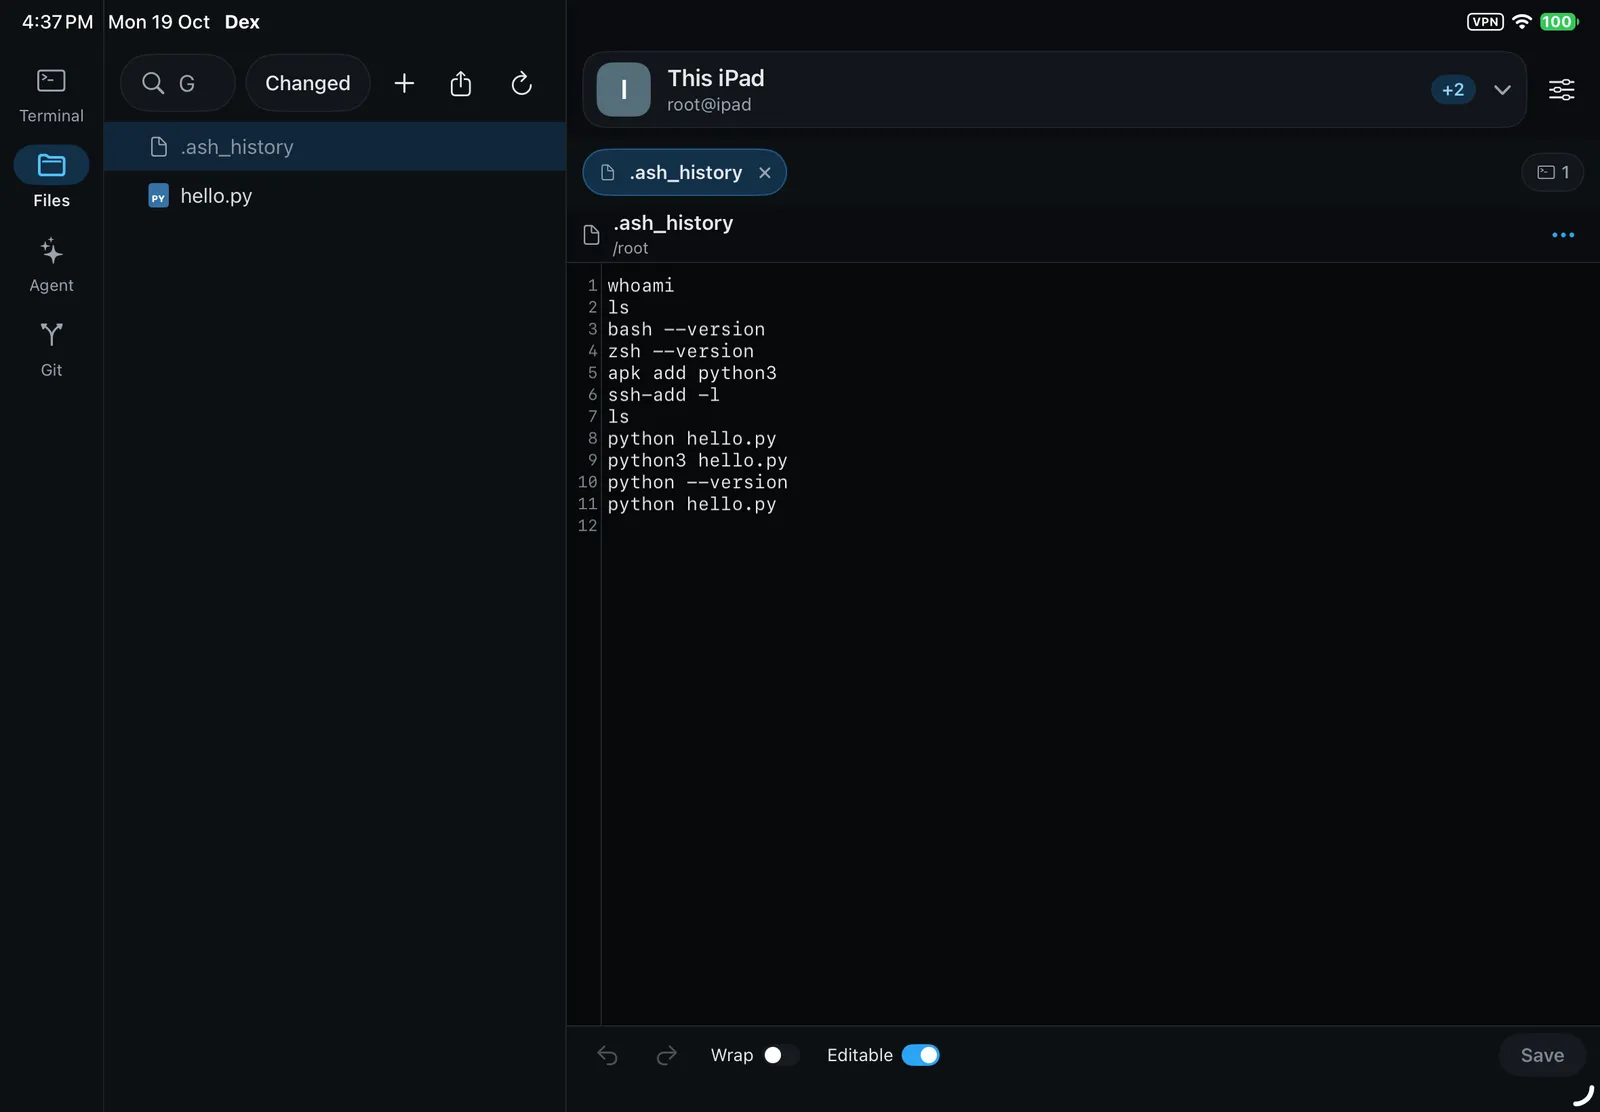
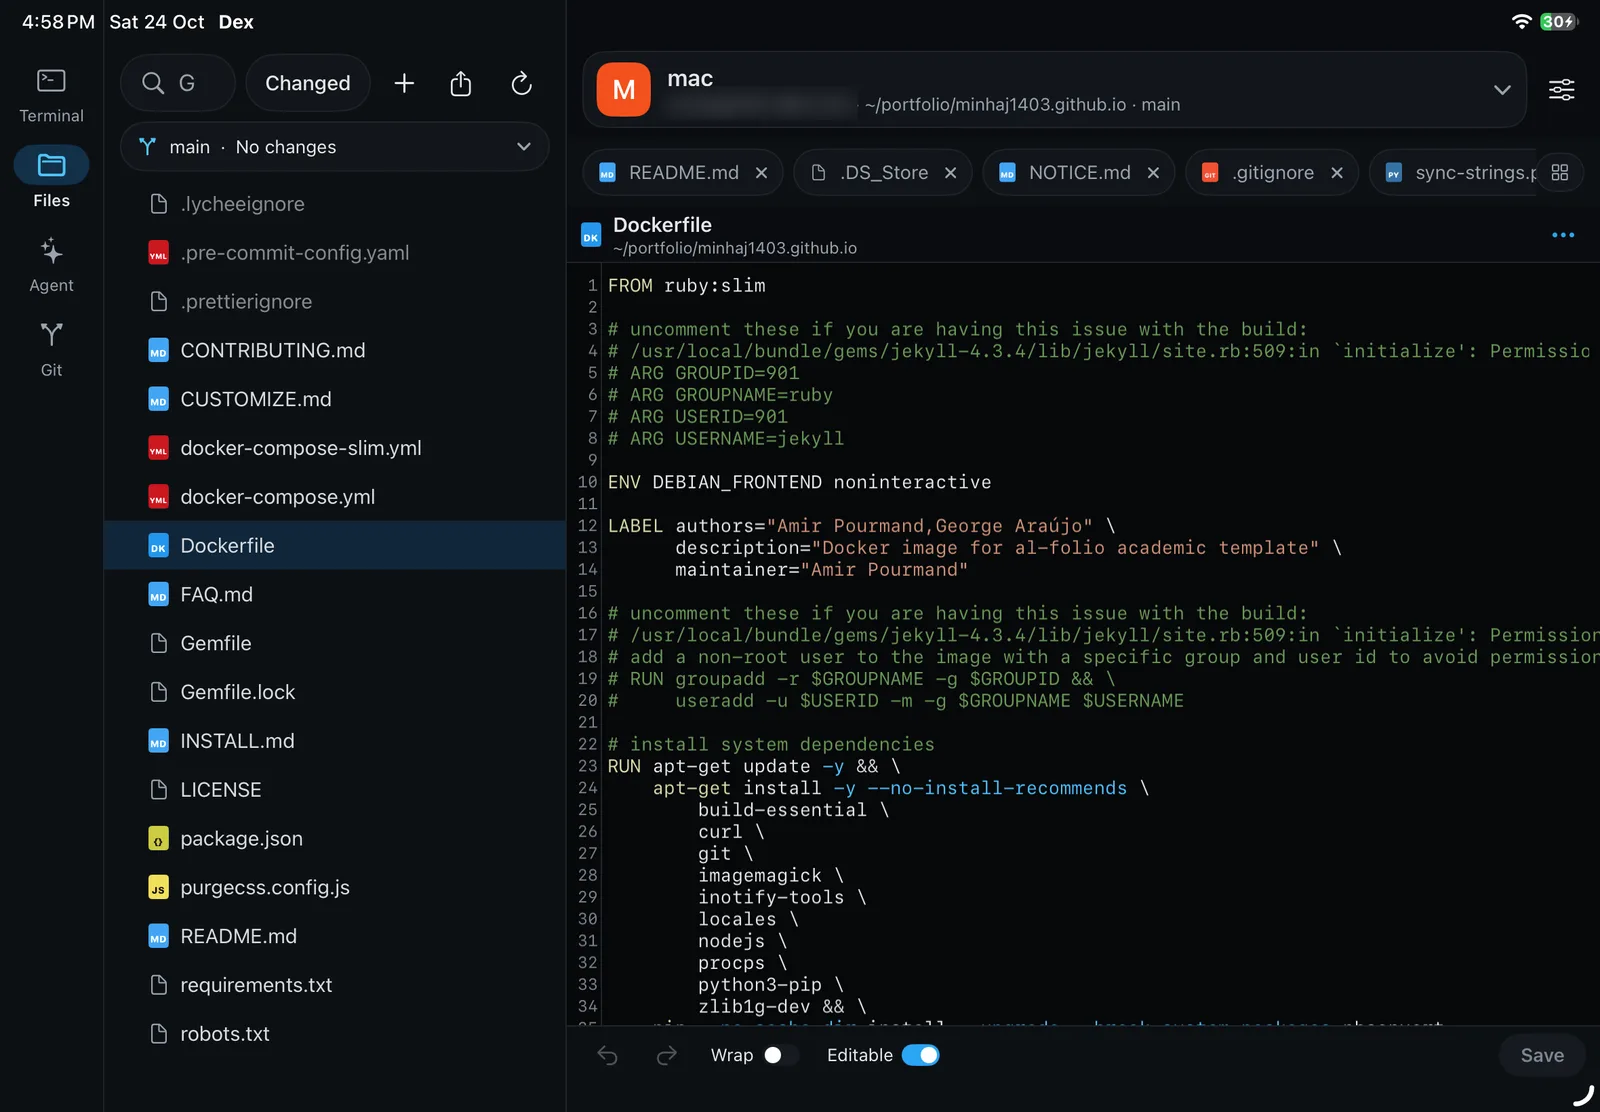
Show a project on a Mac in the iPad's Files screenshot of Dex, not the iPad's own files

diff --git a/dex/bn/index.html b/dex/bn/index.html
@@ -322,7 +322,7 @@
         <div class="tablet">
           <div class="screen">
             <div class="track track-3" id="tabletTrack">
-              <img src="../assets/img/tab-files.webp" alt="iPad এ Dex: iPad এর নিজের ফাইল, একটি এডিটরে খোলা।" width="1600" height="1112" loading="lazy">
+              <img src="../assets/img/tab-files.webp" alt="iPad এ Dex: একটি Mac এর প্রজেক্টের ফাইল, একটি এডিটরে খোলা।" width="1600" height="1112" loading="lazy">
               <img src="../assets/img/tab-agent.webp" alt="iPad এ Dex: Mac এর এজেন্টের আলাপ, তার টার্মিনালের পাশে।" width="1600" height="1112" loading="lazy">
               <img src="../assets/img/tab-git.webp" alt="iPad এ Dex: Git ট্যাব, কমিটের জন্য তৈরি একটি পরিবর্তন সহ।" width="1600" height="1112" loading="lazy">
             </div>

diff --git a/dex/ko/index.html b/dex/ko/index.html
@@ -322,7 +322,7 @@
         <div class="tablet">
           <div class="screen">
             <div class="track track-3" id="tabletTrack">
-              <img src="../assets/img/tab-files.webp" alt="iPad의 Dex: iPad 자체의 파일과, 편집기에 열린 파일 하나." width="1600" height="1112" loading="lazy">
+              <img src="../assets/img/tab-files.webp" alt="iPad의 Dex: Mac에 있는 프로젝트의 파일과, 편집기에 열린 파일 하나." width="1600" height="1112" loading="lazy">
               <img src="../assets/img/tab-agent.webp" alt="iPad의 Dex: Mac의 에이전트 대화와 그 옆의 터미널." width="1600" height="1112" loading="lazy">
               <img src="../assets/img/tab-git.webp" alt="iPad의 Dex: 커밋할 변경 사항이 있는 Git 탭." width="1600" height="1112" loading="lazy">
             </div>

diff --git a/dex/index.html b/dex/index.html
@@ -322,7 +322,7 @@
         <div class="tablet">
           <div class="screen">
             <div class="track track-3" id="tabletTrack">
-              <img src="assets/img/tab-files.webp" alt="Dex on an iPad: the iPad's own files, with one open in the editor." width="1600" height="1112" loading="lazy">
+              <img src="assets/img/tab-files.webp" alt="Dex on an iPad: the files of a project on a Mac, with one open in the editor." width="1600" height="1112" loading="lazy">
               <img src="assets/img/tab-agent.webp" alt="Dex on an iPad: agent conversations on a Mac, beside its terminal." width="1600" height="1112" loading="lazy">
               <img src="assets/img/tab-git.webp" alt="Dex on an iPad: the Git tab, with a change ready to commit." width="1600" height="1112" loading="lazy">
             </div>
